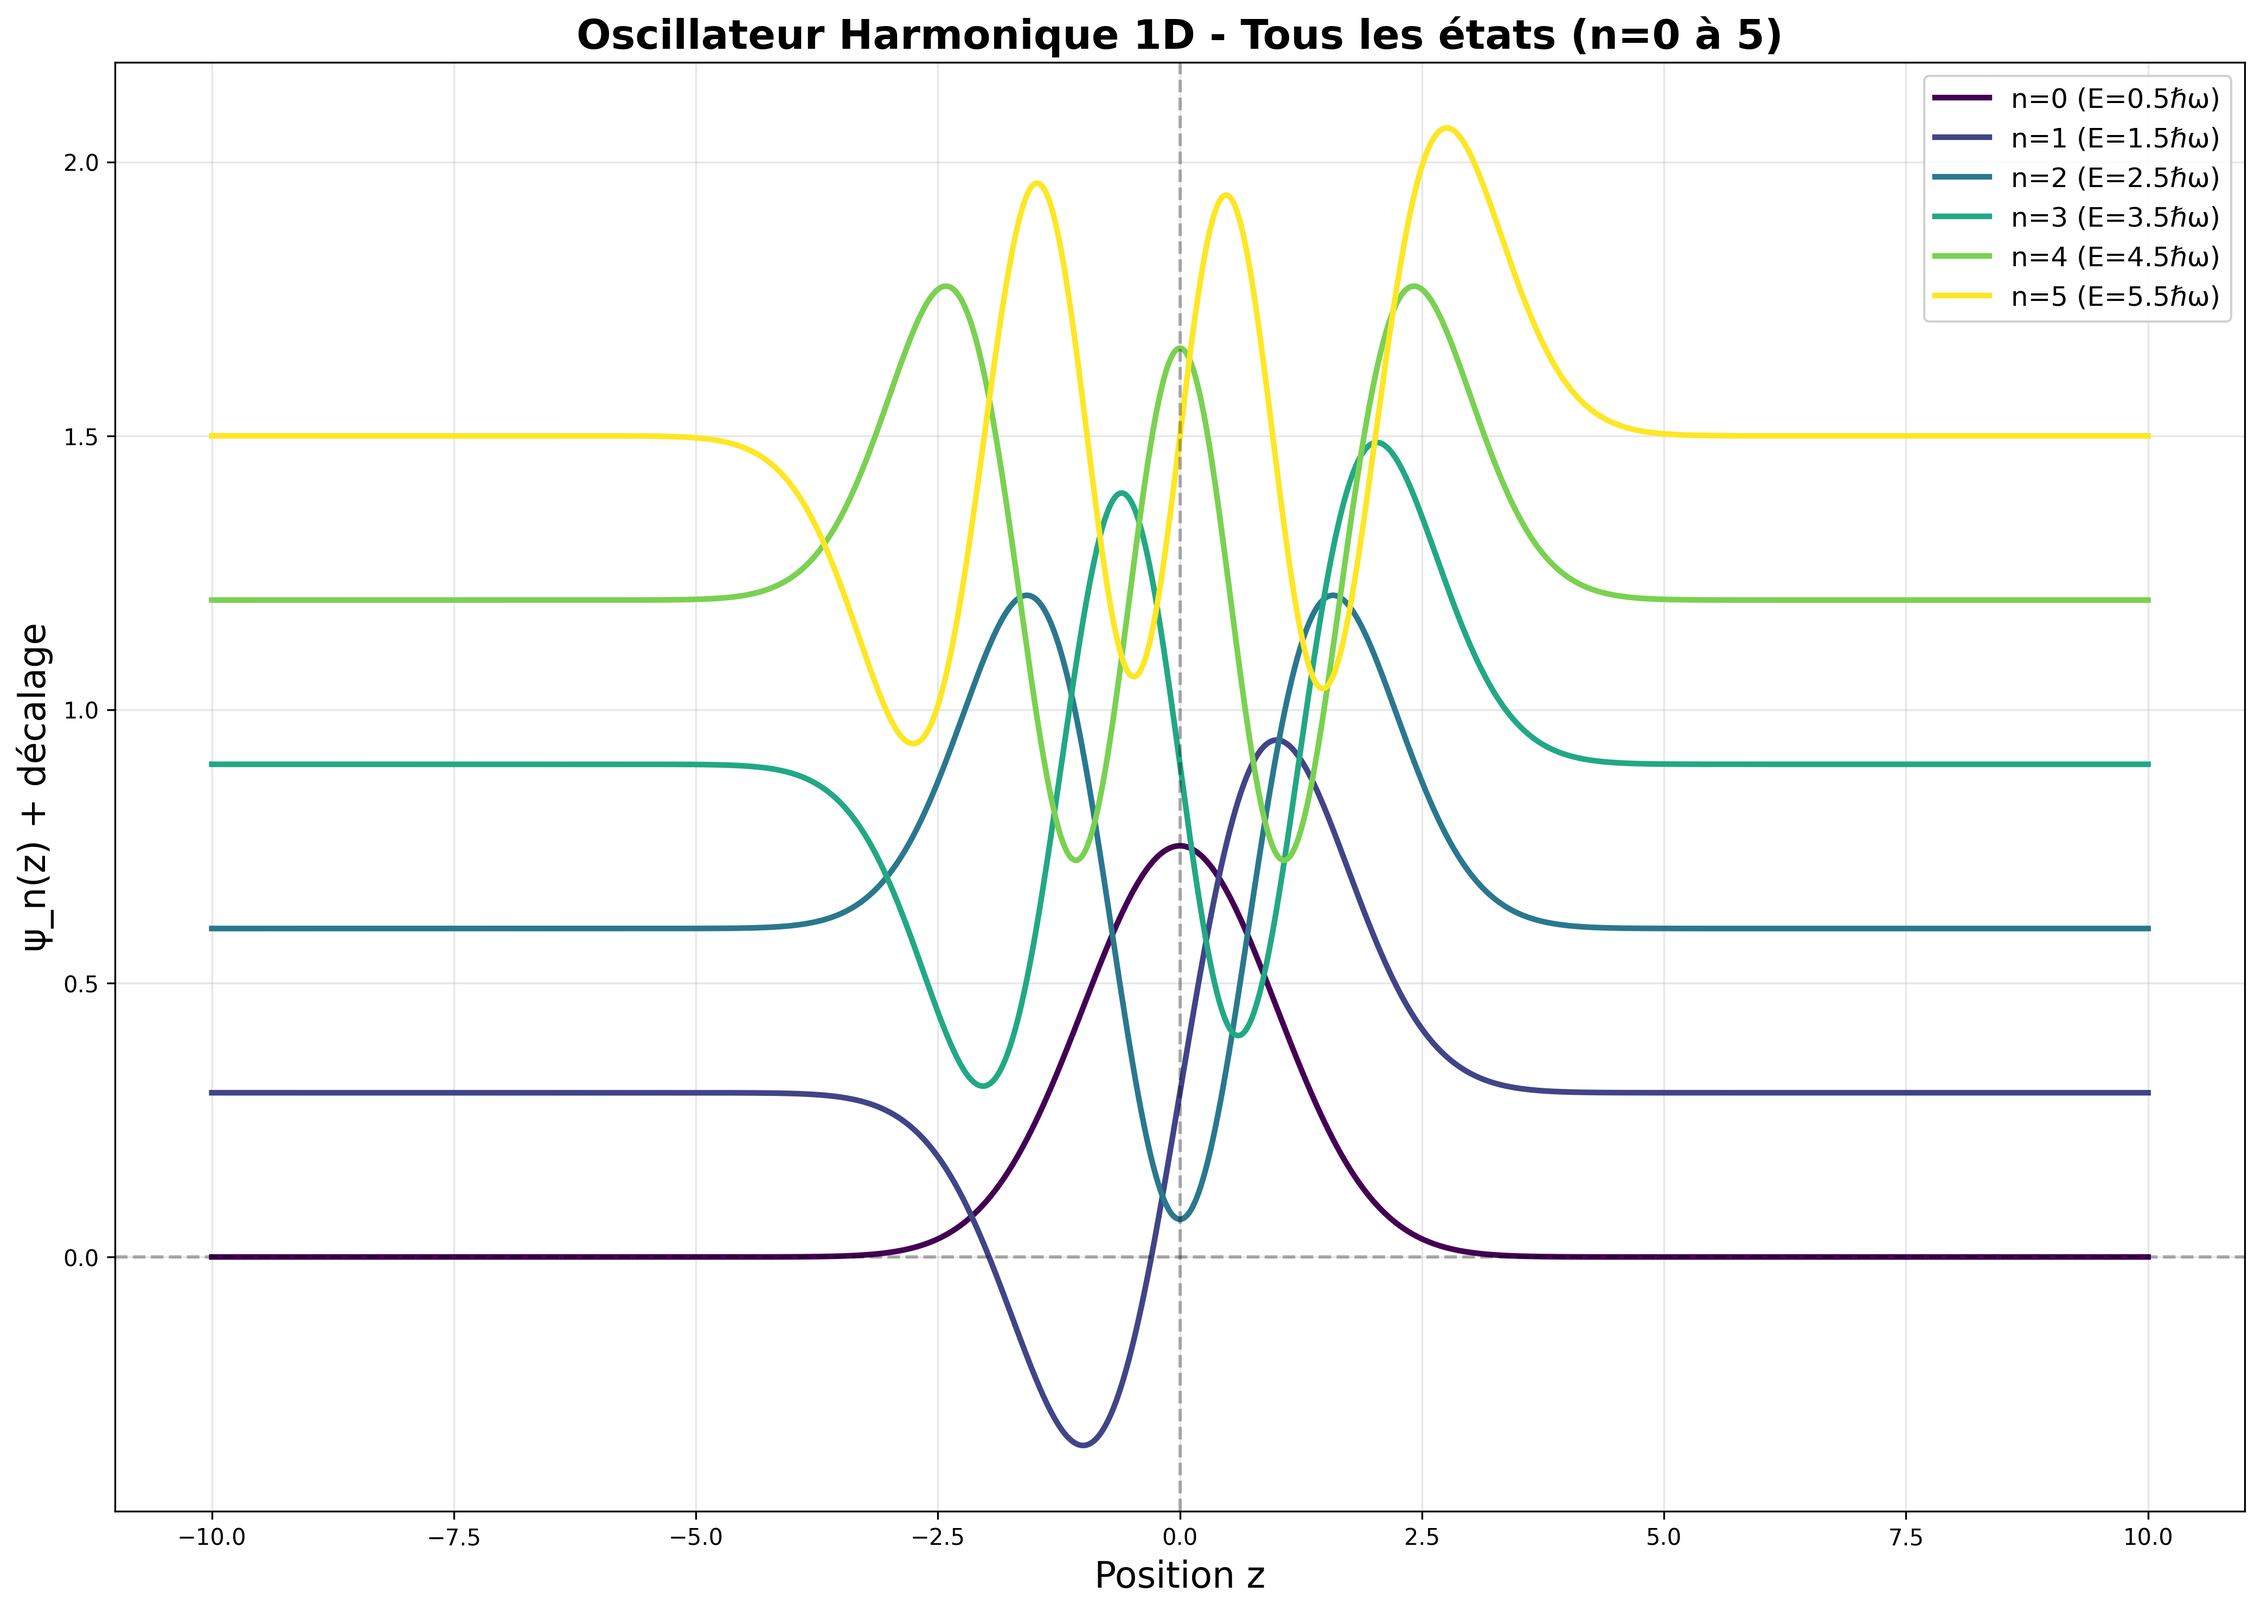
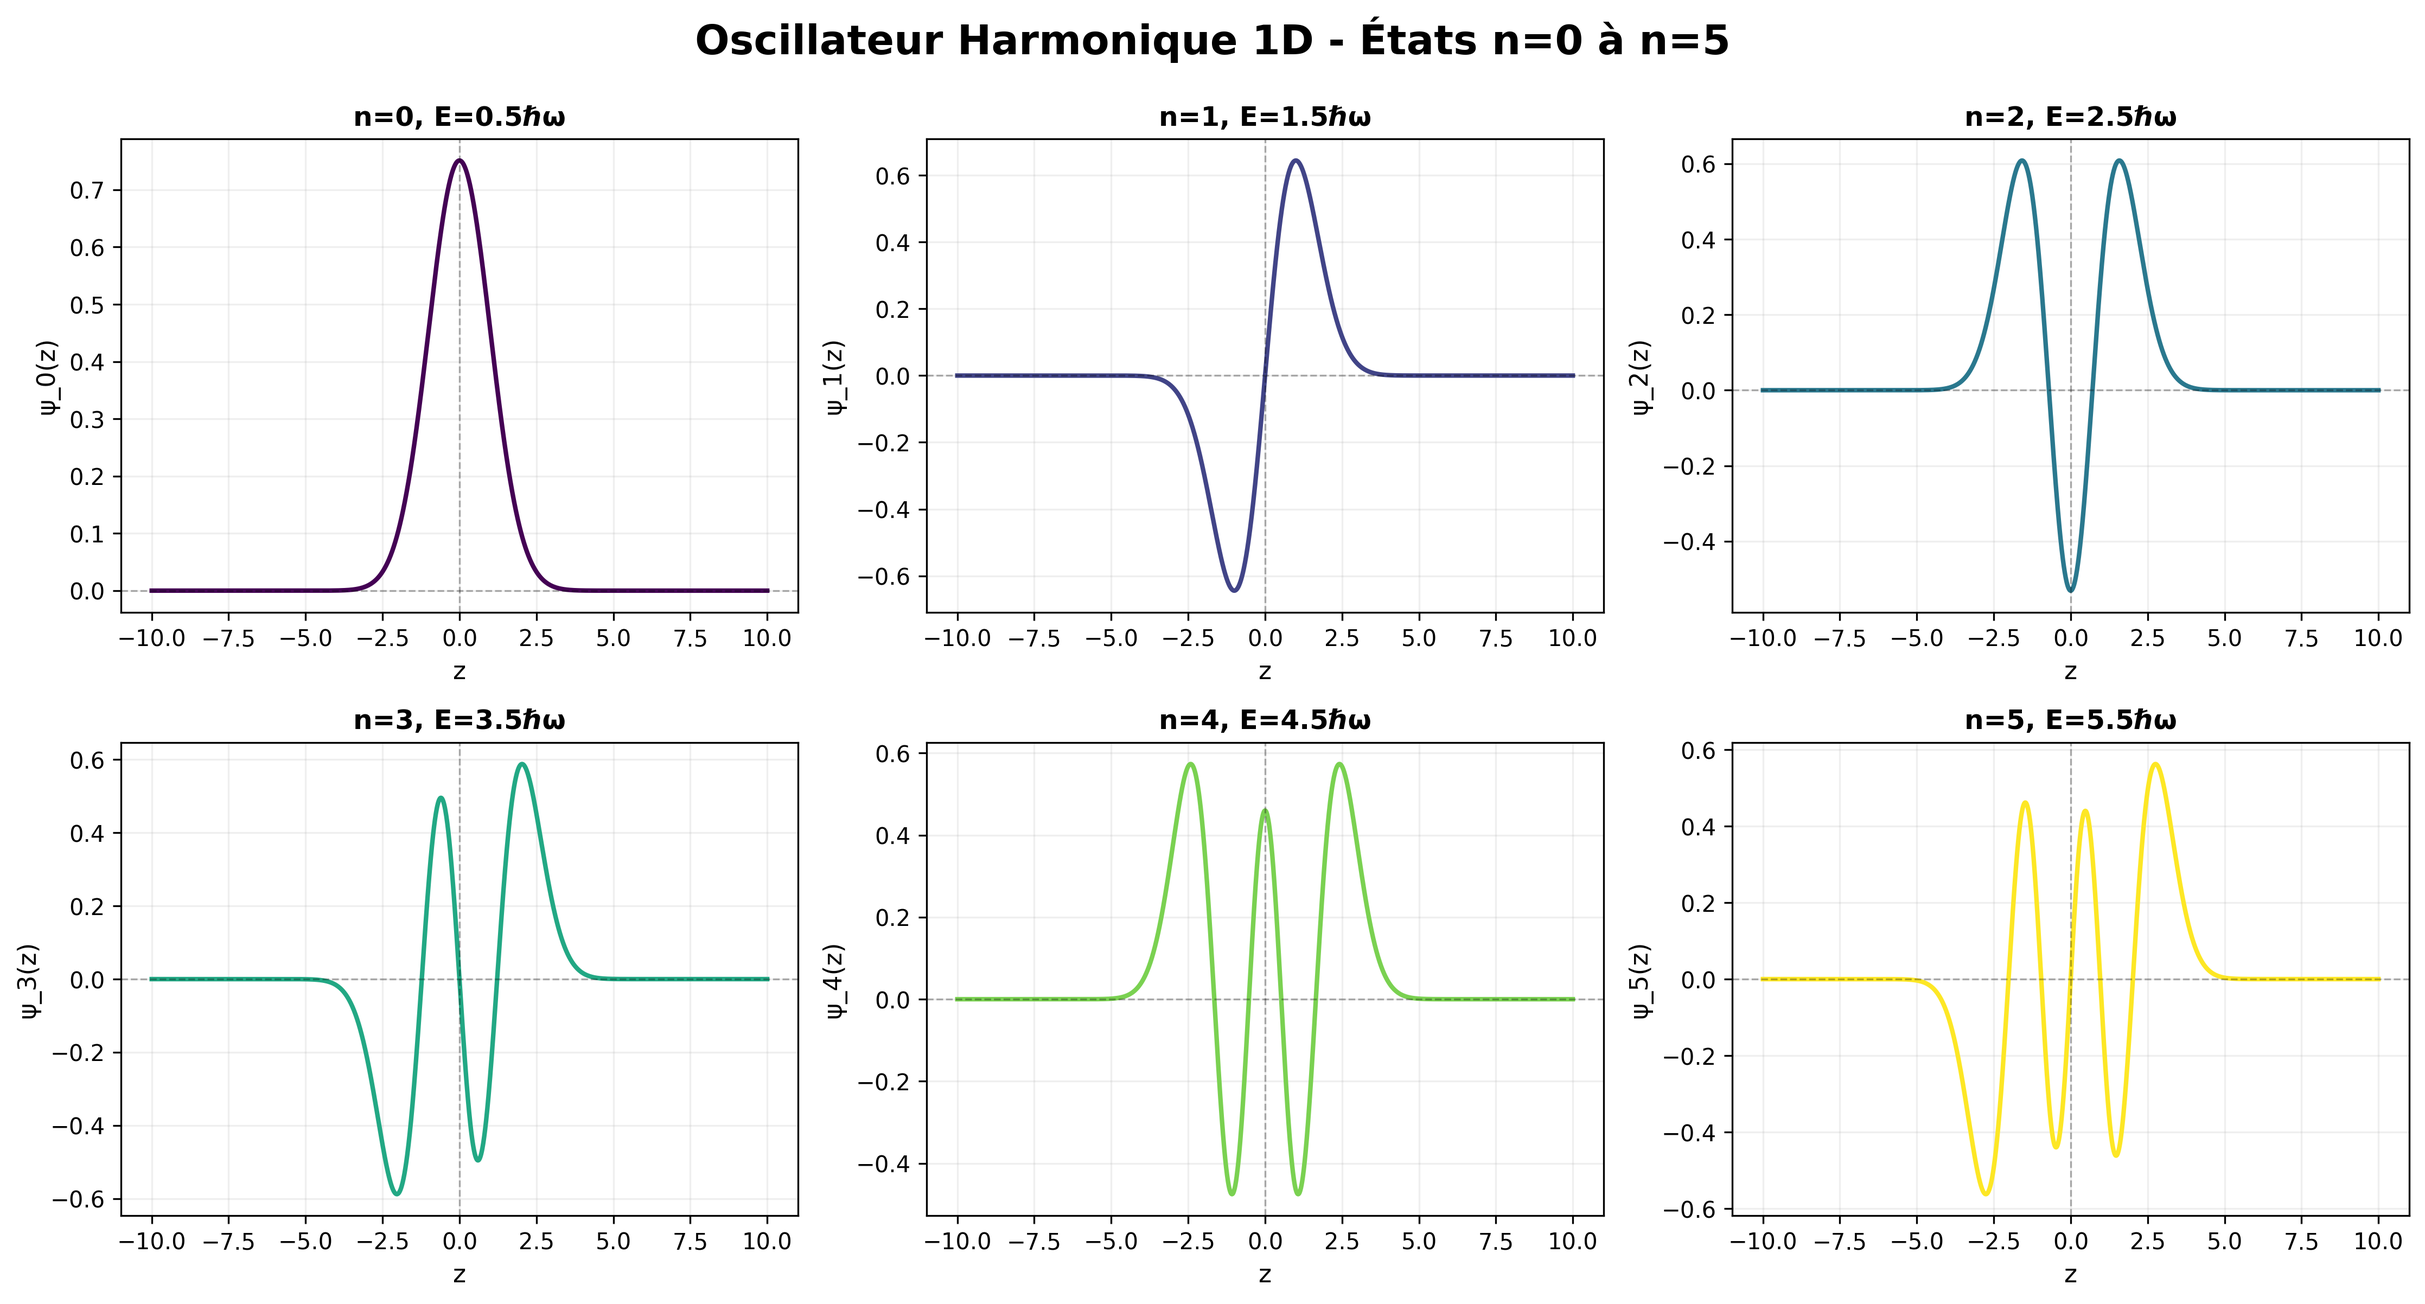
ajout d'image pour la comparaison des plots

diff --git a/src/plot.py b/src/plot.py
@@ -37,11 +37,22 @@ for i in range(n_max + 1):
     except FileNotFoundError:
         print(f"  ✗ Fichier resultat_n{i}.csv non trouvé")
 
-# 2. Graphique combiné
-plt.figure(figsize=(14, 10))
+# 2. Graphique avec subplots séparés
+# Calcul de la disposition optimale des subplots
+n_cols = 3  # 3 colonnes
+n_rows = (n_max + 1 + n_cols - 1) // n_cols  # Nombre de lignes nécessaires
+
+fig, axes = plt.subplots(n_rows, n_cols, figsize=(15, 4*n_rows))
+fig.suptitle(f'Oscillateur Harmonique 1D - États n=0 à n={n_max}', 
+             fontsize=18, fontweight='bold', y=0.995)
+
+# Aplatir le tableau d'axes pour faciliter l'itération
+axes_flat = axes.flatten() if n_rows > 1 else [axes] if n_cols == 1 else axes
+
 colors = plt.cm.viridis(np.linspace(0, 1, n_max+1))
 
 for i in range(n_max + 1):
+    ax = axes_flat[i]
     try:
         df = pd.read_csv(f'resultat_n{i}.csv', skiprows=1, header=None, names=['psi'])
         df['psi'] = pd.to_numeric(df['psi'], errors='coerce')
@@ -50,24 +61,28 @@ for i in range(n_max + 1):
         n_points = len(df)
         z = np.linspace(-10, 10, n_points)
         
-        # Décalage vertical pour éviter le chevauchement
-        offset = i * 0.3
+        # Tracer la fonction d'onde
+        ax.plot(z, df['psi'], linewidth=2, color=colors[i])
+        ax.axhline(y=0, color='k', linestyle='--', alpha=0.3, linewidth=0.8)
+        ax.axvline(x=0, color='k', linestyle='--', alpha=0.3, linewidth=0.8)
+        ax.set_xlabel('z', fontsize=11)
+        ax.set_ylabel(f'ψ_{i}(z)', fontsize=11)
+        ax.set_title(f'n={i}, E={0.5+i:.1f}ℏω', fontsize=12, fontweight='bold')
+        ax.grid(True, alpha=0.2)
         
-        plt.plot(z, df['psi'] + offset, linewidth=2.5, 
-                label=f'n={i} (E={0.5+i:.1f}ℏω)', color=colors[i])
     except FileNotFoundError:
-        continue
+        ax.text(0.5, 0.5, f'n={i}\nNon disponible', 
+                ha='center', va='center', transform=ax.transAxes, fontsize=12)
+        ax.set_xticks([])
+        ax.set_yticks([])
 
-plt.axhline(y=0, color='k', linestyle='--', alpha=0.3)
-plt.axvline(x=0, color='k', linestyle='--', alpha=0.3)
-plt.xlabel('Position z', fontsize=16)
-plt.ylabel('ψ_n(z) + décalage', fontsize=16)
-plt.title(f'Oscillateur Harmonique 1D - Tous les états (n=0 à {n_max})', fontsize=18, fontweight='bold')
-plt.grid(True, alpha=0.3)
-plt.legend(fontsize=12, loc='upper right', framealpha=0.9)
+# Masquer les subplots vides restants
+for i in range(n_max + 1, len(axes_flat)):
+    axes_flat[i].axis('off')
+
 plt.tight_layout()
 plt.savefig(f'oscillateur_tous_etats.png', dpi=300, bbox_inches='tight')
-print(f"\n✓ Graphique combiné: oscillateur_tous_etats.png")
+print(f"\n✓ Graphique avec subplots séparés: oscillateur_tous_etats.png")
 
 plt.show()
 
